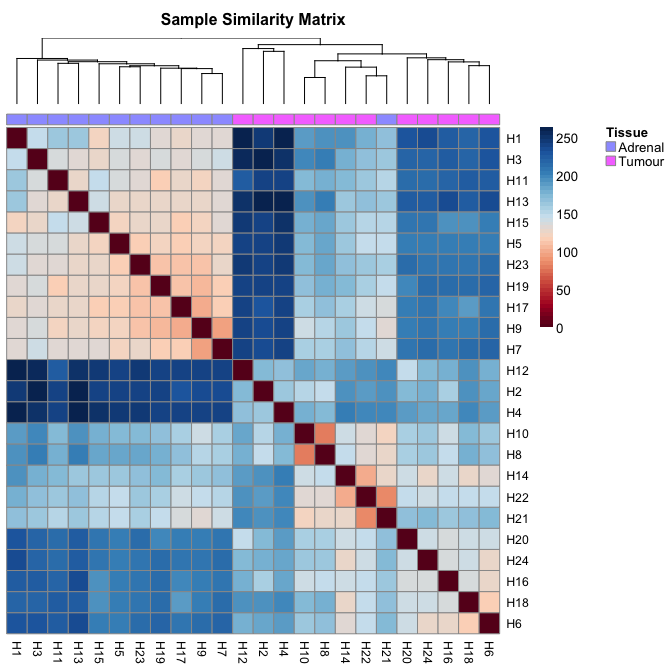
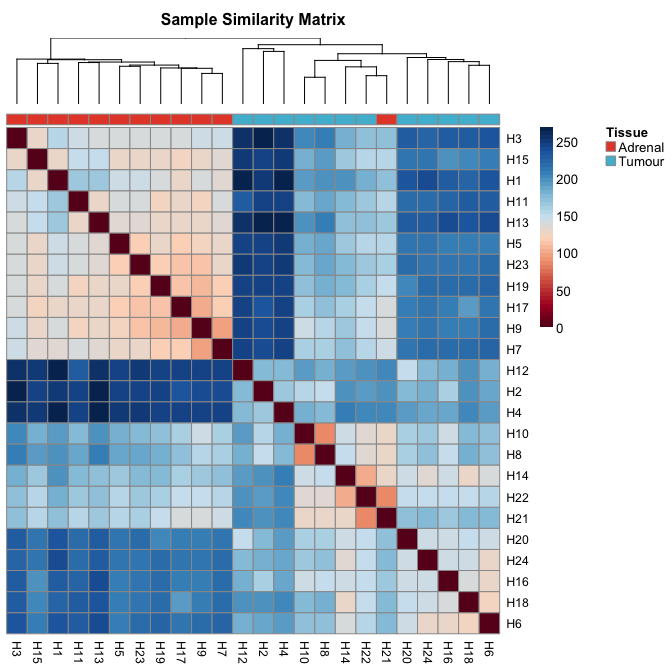
systems update

diff --git a/Scripts/Hs_Tumour.md b/Scripts/Hs_Tumour.md
@@ -8,7 +8,7 @@ Human Tumour Data
 -   [Cilia Pathway Enrichment](#cilia-pathway-enrichment)
 -   [Figures](#figures)
 
-All analysis was conducted in R version 3.3.3 using the following script. Computations were performed on a MacBook Pro with 16GB of RAM.
+All analysis was conducted in R version 3.4.0 using the following script. Computations were performed on a MacBook Pro with 16GB of RAM and an i7 quad-core processor.
 
 If you haven't already installed the `bioplotr` package, you'll need to do so to reproduce the figures below.
 
@@ -38,21 +38,22 @@ For this portion of the study, we restrict our focus to paired samples.
 
 ``` r
 # Import data
-clin <- fread('./Data/Hs.Clinical.csv') %>% filter(Paired == 'Paired')
+clin <- fread('./Data/Hs.Clinical.csv') %>% 
+  filter(Paired == 'Paired')
 t2g <- fread('./Data/Hs79.t2g.csv')
 anno <- fread('./Data/Hs.anno.csv')
 files <- file.path('./Data/Counts/Human', clin$Sample, 'abundance.tsv')
-txi <- tximport(files, type = 'kallisto', tx2gene = t2g, reader = fread)
+txi <- tximport(files, type = 'kallisto', tx2gene = t2g, importer = fread)
 ```
 
 Filter, Transform Counts
 ========================
 
-Before conducting exploratory data analysis (EDA), we remove genes with less than one count per million (CPM) in twelve libraries. This ensures that every gene is expressed in at least one of the two tissue types (tumour and adrenal). This threshold follows the filtering guidelines of [Robinson et al. (2010)](https://www.ncbi.nlm.nih.gov/pubmed/19910308). Counts are then RLE normalised ([Anders & Huber, 2010](https://genomebiology.biomedcentral.com/articles/10.1186/gb-2010-11-10-r106)) and converted to the log<sub>2</sub>-CPM scale to stabilise variance across the omic range.
+Before conducting exploratory data analysis (EDA), we remove genes with less than one count per million (CPM) in at least twelve libraries. This ensures that every gene is expressed in at least one of the two tissue types (tumour and adrenal). This threshold follows the filtering guidelines of [Robinson et al. (2010)](https://www.ncbi.nlm.nih.gov/pubmed/19910308). Counts are then RLE normalised ([Anders & Huber, 2010](https://genomebiology.biomedcentral.com/articles/10.1186/gb-2010-11-10-r106)) and converted to the log<sub>2</sub>-CPM scale to stabilise variance across the omic range.
 
 ``` r
 # Filter, transform counts
-keep <- rowSums(cpm(txi$counts) >= 1) > 12
+keep <- rowSums(cpm(txi$counts) > 1) >= 12
 mat <- DGEList(txi$counts[keep, ])
 mat <- calcNormFactors(mat, method = 'RLE')
 mat <- cpm(mat, log = TRUE, prior.count = 1)
@@ -62,7 +63,7 @@ colnames(mat) <- clin$Sample
 dim(mat)
 ```
 
-    ## [1] 17198    24
+    ## [1] 17464    24
 
 EDA will proceed with 17,198 genes. (Note that gene filtering is performed separately for differential expression analysis. We will make use of this EDA filter when testing for pathway enrichment, however. See below.)
 
@@ -112,7 +113,7 @@ We see here that the data are indeed approximately normal following our preproce
 Next we build a sample similarity matrix by calculating the pairwise [Euclidean distance](https://en.wikipedia.org/wiki/Euclidean_distance) between all samples in the data. This matrix is then visualised as a heatmap and used to generate a hierarchical clustering dendrogram.
 
 ``` r
-plot_similarity(mat, anno = list(Tissue = clin$Tissue))
+plot_similarity(mat, group = list(Tissue = clin$Tissue))
 ```
 
 <p align='center'>
@@ -181,7 +182,7 @@ How many genes are differentially expressed at 1% FDR?
 sum(top_genes$FDR <= 0.01)
 ```
 
-    ## [1] 7676
+    ## [1] 7615
 
 What proportion of all genes that passed independent filtering does that represent?
 
@@ -189,7 +190,7 @@ What proportion of all genes that passed independent filtering does that represe
 sum(top_genes$FDR <= 0.01) / nrow(top_genes)
 ```
 
-    ## [1] 0.3202737
+    ## [1] 0.3177285
 
 Almost a third of all genes are differentially expressed at 1% FDR, indicating a very strong transcriptomic signal associated with tissue type.
 
@@ -226,6 +227,8 @@ signal_mat <- cpm(signal_mat, log = TRUE, prior.count = 1)
 resid_mat <- cnts - signal_mat
 
 # Run QuSAGE pipeline
+overlap <- sapply(cilia, function(g) sum(g %in% rownames(dds)))
+cilia <- cilia[overlap > 1]
 res <- newQSarray(mean = mean, SD = SD, sd.alpha = sd.alpha, dof = dof,
                   labels = rep('resid', n))
 res <- aggregateGeneSet(res, cilia, 2^14)     
@@ -242,7 +245,7 @@ How many pathways are significantly enriched at 1% FDR?
 sum(top_pathways$FDR <= 0.01)
 ```
 
-    ## [1] 17
+    ## [1] 2
 
 What proportion of all pathways does that represent?
 
@@ -250,7 +253,7 @@ What proportion of all pathways does that represent?
 sum(top_pathways$FDR <= 0.01) / nrow(top_pathways)
 ```
 
-    ## [1] 0.3469388
+    ## [1] 0.04081633
 
 About a third of all cilia-related pathways are significantly enriched, once again suggesting a strong transcriptomic signal differentiating between tumour and adrenal samples.
 
@@ -282,7 +285,7 @@ for (p in seq_along(cilia)) {
 }
 
 # Plot results
-plot_heatmap(pathway_mat, anno = list(Tissue = clin$Tissue), 
+plot_heatmap(pathway_mat, group = list(Tissue = clin$Tissue), 
              title = 'Cilia Related Pathways')
 ```
 
@@ -290,4 +293,4 @@ plot_heatmap(pathway_mat, anno = list(Tissue = clin$Tissue),
 <img src="Hs_Tumour_files/figure-markdown_github/heatmap-1.png" style="display: block; margin: auto;" />
 </p>
 
-This heatmap reveals several interesting features of the data. First of all, H21 has been successfully classified with adrenal samples here --- but only just. He is still an outlier among the cohort, and his pathway expression profile looks remarkably similar to those from the nearest clade of tumour samples, which form a clear subgroup within the cancer samples. The rowwise dendrogram also clearly delineates between two groups of pathways, which may provide clues into underlying biological mechanisms of the cilia life cycle in patients with PCC.
+This heatmap reveals several interesting features of the data. First of all, H21 has been successfully classified with adrenal samples here -- but only just. He is still an outlier among the cohort, and his pathway expression profile looks remarkably similar to those from the nearest clade of tumour samples, which form a clear subgroup within the cancer samples. The rowwise dendrogram also clearly delineates between two groups of pathways, which may provide clues into underlying biological mechanisms of the cilia life cycle in patients with PCC.
